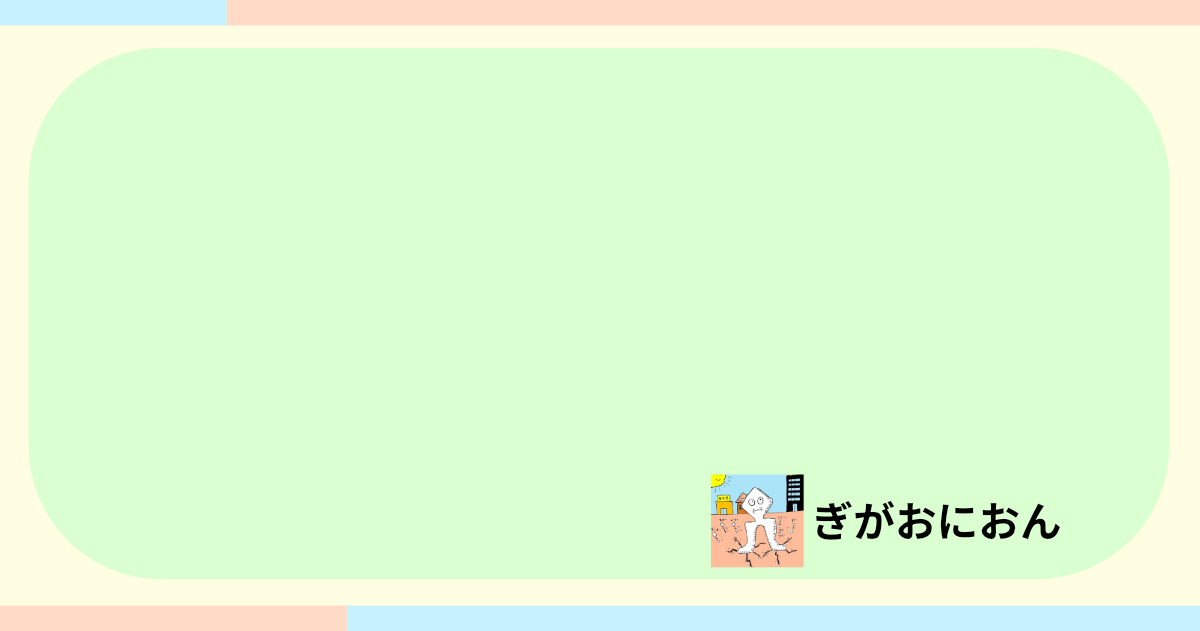
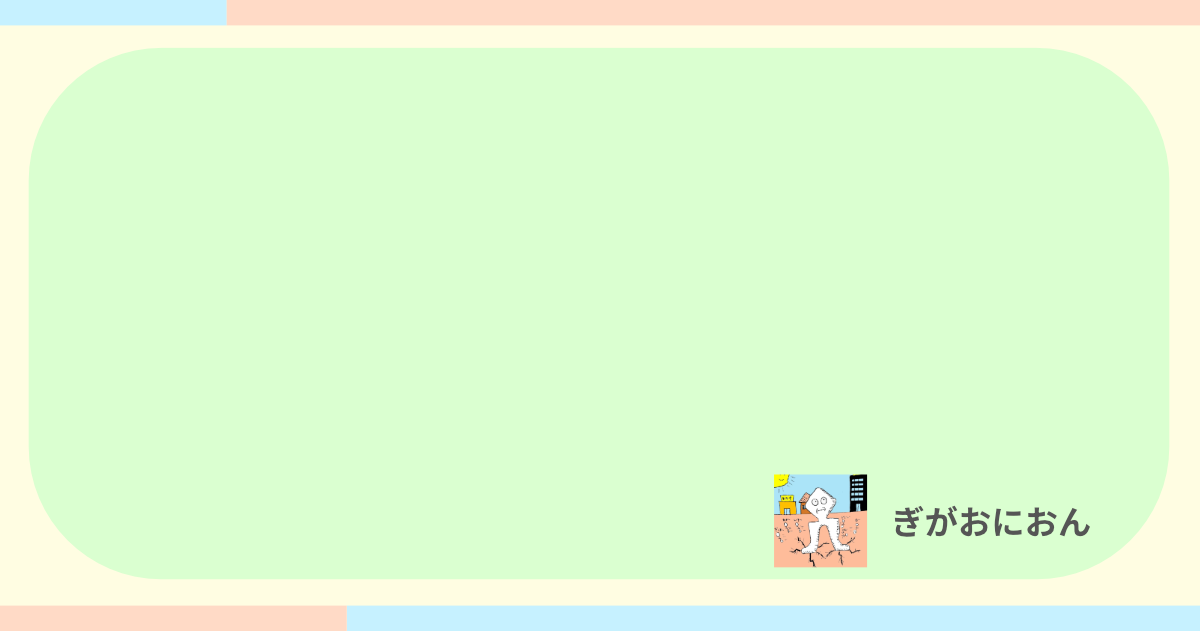
Mics: fix OGP image size

Changed region(s): [[0.5858, 0.7528, 0.925, 0.9033]]

diff --git a/themes/blog/layouts/_partials/seo.html b/themes/blog/layouts/_partials/seo.html
@@ -40,8 +40,8 @@
     {{- $title := .Title -}}
     {{- $options := dict
         "color" "#000"
-        "size" 40
-        "x" 50
+        "size" 42
+        "x" 60
         "y" 150
         "linespacing" 10
         "font" $font
